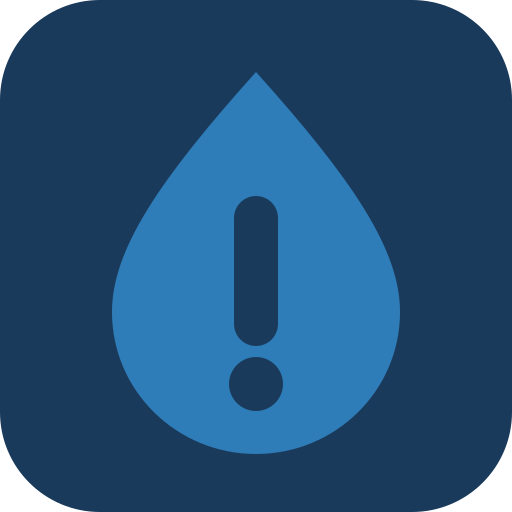
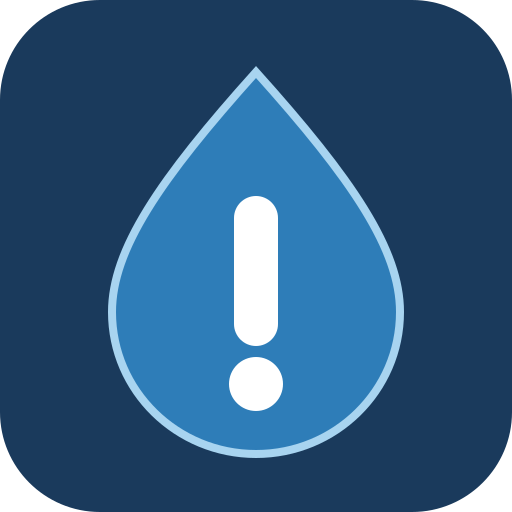
Completa icones do PWA: borda clara, exclamacao branca, variante maskable
Os icones existentes ja tinham o conceito certo (gota + sinal de atencao)
mas a exclamacao usava a mesma cor do fundo em vez de branco, e faltava
a borda a8d4f0 na gota. Adiciona tambem icon-maskable-512.png (gota
reduzida pra caber na safe zone central de 80%, exigida por launchers
Android que aplicam mascara circular/squircle) e registra a variante
maskable no manifest.json.

diff --git a/scripts/generate_icons.js b/scripts/generate_icons.js
@@ -1,9 +1,14 @@
-// Gera os ícones PNG do PWA a partir de public/icon.svg.
+// Gera os ícones PNG do PWA a partir de public/icon.svg (e a variante
+// maskable a partir de public/icon-maskable.svg, com a gota reduzida pra
+// caber na "safe zone" central de 80% exigida por ícones maskable — sem
+// isso, launchers Android que aplicam máscara circular/squircle cortam as
+// pontas da gota).
 // Uso: node scripts/generate_icons.js
 const sharp = require("sharp");
 const path = require("path");
 
 const svgPath = path.join(__dirname, "..", "public", "icon.svg");
+const maskableSvgPath = path.join(__dirname, "..", "public", "icon-maskable.svg");
 const sizes = [192, 512];
 
 async function main() {
@@ -12,6 +17,10 @@ async function main() {
     await sharp(svgPath, { density: 384 }).resize(size, size).png().toFile(outPath);
     console.log(`Gerado icon-${size}.png`);
   }
+
+  const maskableOut = path.join(__dirname, "..", "public", "icon-maskable-512.png");
+  await sharp(maskableSvgPath, { density: 384 }).resize(512, 512).png().toFile(maskableOut);
+  console.log("Gerado icon-maskable-512.png");
 }
 
 main().catch((err) => {